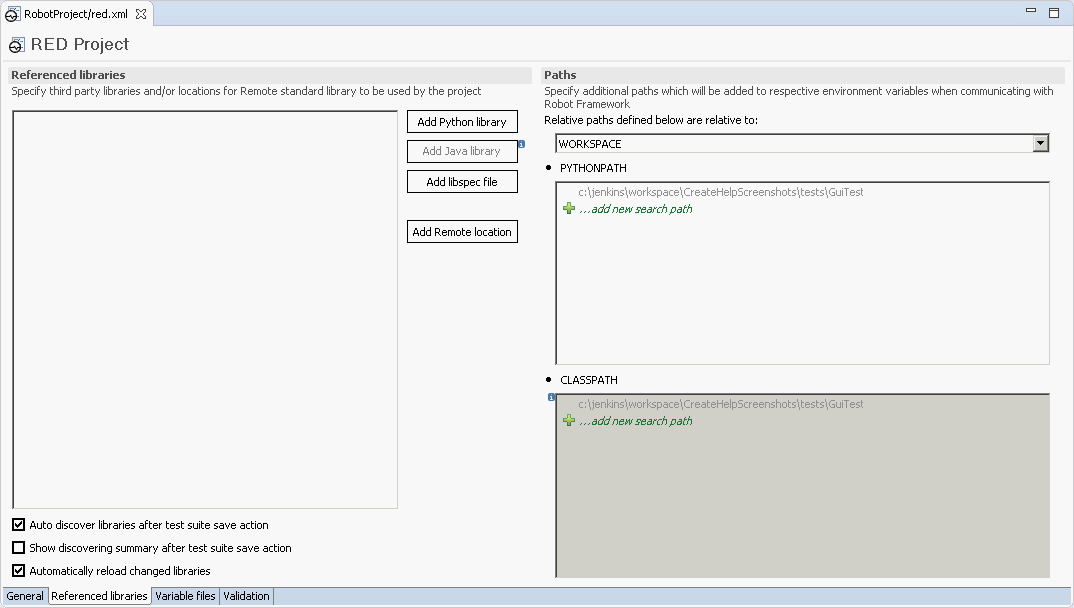
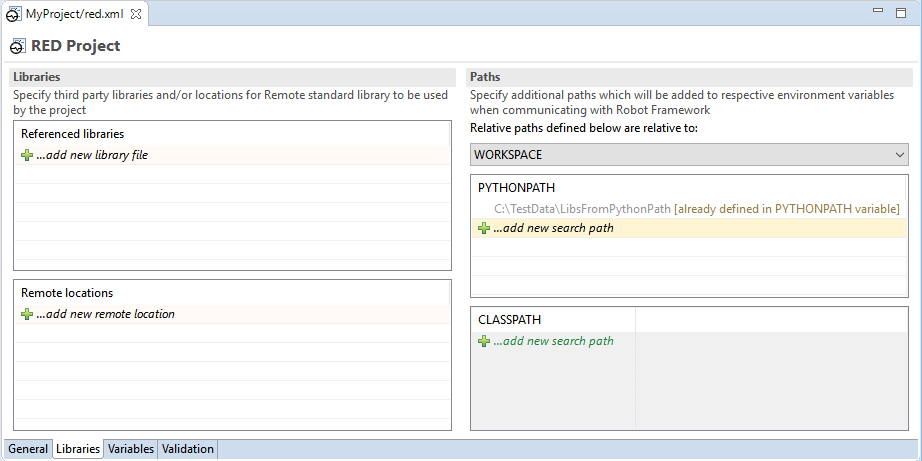
RED-1230 red.xml related help topics updated

Changed region(s): [[0.0, 0.0, 1.0, 1.0]]

diff --git a/src/Eclipse-IDE/org.robotframework.ide.eclipse.main.plugin.doc.user/help/user_guide/working_with_RED/libs.html b/src/Eclipse-IDE/org.robotframework.ide.eclipse.main.plugin.doc.user/help/user_guide/working_with_RED/libs.html
@@ -5,18 +5,15 @@
 <body>
 <h2>Recognizing external libraries in RED</h2>
 
-<h3>External libraries installed by pip or included in testcase by file path</h3>
+<p>In order to provide validation and keyword assistance of external libraries (any library not bundled with RobotFramework, but installed by pip or included in testcase by file path), external library <b>needs</b> to be included in <b> red.xml </b> file in the Referenced libraries part.</p>
 
-In order to provide validation and keyword assistance of external libraries (any library not bundled with RobotFramework), external library <b>needs</b> to be included in <b> red.xml </b> file in the Referenced libraries part. </br>
-<br>
-There are few ways to include library into red.xml
+<p>There are few ways to include library into red.xml.</p>
+
 <h3>Library autodiscovery</h3>
-Main mechanism to include libraries' keywords in RED is done by autodiscovery mechanism. Mechanism works on two levels - during test edition and executed in Project Explorer on group of files and folders. </br>
+<p>Main mechanism to include libraries' keywords in RED is done by autodiscovery mechanism. Mechanism works on two levels - during test edition and executed in Project Explorer on group of files and folders.<br>
 Every time when user edits test suite which has error markers on library declaration, autodiscovery is executed together with save action.<br>
-When there is a need to run autodiscovery on list of files, folders or whole project, this can be achieved by using right click menu in Project Explorer from Robot Framework option.  
-<br><br><img src="images/autodiscovery_menu.png"> <br><br>
-
-<p>Autodiscovery mechanism is configured per project. Its preferences are stored in red.xml file under Referenced Libraries tab.</p>
+When there is a need to run autodiscovery on list of files, folders or whole project, this can be achieved by using right click menu in Project Explorer from Robot Framework option.</p>  
+<img src="images/autodiscovery_menu.png"> <br><br>
 
 <dl class="note">
    <dt>Note</dt>
@@ -24,9 +21,6 @@ When there is a need to run autodiscovery on list of files, folders or whole pro
    </dd>
 </dl>
 
-<h3>Add library from Project Explorer</h3>
-External libraries as python files can be directly included to red.xml file by right clicking on file and using option:<br>
-<b><code>Robot Framework -&gt; Add Library to red.xml.</code></b>
 <h3>Quick Fix - shortcut CTRL+1</h3>
 Lets focus on following example:
 <br><br><img src="images/unknown_libs.png"> <br><br>
@@ -36,38 +30,49 @@ Both libraries are not recognized by RED as libraries names are underlined and e
 Note the light bulb in error marker - it indicates that there is Quick Fix action available.  
 <br>Click on the library name in test editor, open right click menu and choose Quick Fix or use CTRL+1.
 <br><br><img src="images/autodiscovery_quick_fix.png"> <br><br>
-Double click on Discover option, RED will search either PythonPath or library file path, if successful library will be added to Referenced libraries in red.xml 
-<br><br><img src="images/reference_libs.png"> <br><br>
-<br>
-All changes are stored in red.xml, if you need to modify them, open red.xml using Eclipse Default Editor.
+After selecting Discover option, RED will search either PythonPath or library file path, if successful library will be added to Referenced libraries in red.xml 
+<br><br><img src="images/reference_libs.png"><br>
+
+<h3>Add library from Project Explorer</h3>
+External Python libraries can be directly included to red.xml file by right clicking on file and using option:<br>
+<b><code>Robot Framework -&gt; Add Library to red.xml.</code></b>
+
+<h3>Add library from red.xml editor</h3>
+External can be also added directly from red.xml editor:<br><br>
+<img src="images/library_add.gif"> <br><br>
 
 <h3>Using libdoc file when external library is not present locally</h3>
 
 In some scenarios, testware edit happens on different host than test runtime thus it is undesirable/unnecessary to install/import all libraries as on remote host. RobotFramework provides possibility to generate an xml file with list of keywords, this also provides agile test development where libraries are developed in parallel to test cases.<br>
-Libdoc file can be included instead of link to external library by using red.xml editor.<br><br>
-For more information about LibDoc please refer to <a target="_blank" class="external"  href="http://robot-framework.readthedocs.io/en/latest/_modules/robot/libdoc.html?highlight=libdoc">http://robot-framework.readthedocs.io/en/latest/_modules/robot/libdoc.html?highlight=libdoc</a> <br>
-<h3>Errors while importing Referenced Libraries </h3>
-During library import, RED is generating LibDoc from given python file using local python interpreter. 
-Under the hood RED is executing following command to RobotFramework to get list of Keywords from give library:<br>
-<i>python -m robot.libdoc &ltPATH_TO_LIBNAME&gt &ltOPTIONS&gt</i><br>
-Whenever RED encounters problem, it will be shown as popup window from Python execution:
-<br><br><img src="images/libdoc_error.png"> <br><br>
+Libdoc xml file can be included instead of external library file by using red.xml editor.<br><br>
+For more information about LibDoc please refer to <a target="_blank" class="external" href="http://robot-framework.readthedocs.io/en/latest/_modules/robot/libdoc.html?highlight=libdoc">http://robot-framework.readthedocs.io/en/latest/_modules/robot/libdoc.html?highlight=libdoc</a> <br>
+
+<h3>Library autodiscovering and libdoc generation preferences</h3>
+<p>Autodiscovering and libdoc generation preferences can be configured at <code><a class="command" href="javascript:executeCommand('org.eclipse.ui.window.preferences(preferencePageId=org.robotframework.ide.eclipse.main.plugin.preferences.libraries)')">
+Window -&gt; Preferences -&gt; Robot Framework -&gt; Libraries</a></code></p>
+
+<img src="images/libraries_preferences.png"> <br><br>
+
+<dl class="note">
+   <dt>Note</dt>
+   <dd>In some cases problems occur during libdoc generation via session server. It leads to a situation when the server hangs due to <a target="_blank" class="external" href="https://wiki.python.org/moin/GlobalInterpreterLock">Global Interpreter Lock</a> between the server code and the library code.<br> 
+To avoid this problem since version 0.8.11 libdocs are generated in a separate by default. Note that this solution may affect the time of libdoc generation, i.e. slowing down the libraries import, especially with jython interpreter.
+If you are not using problematic libraries you can disable the preference to make libdoc generation faster.
+   </dd>
+</dl>
+
+<h3>Reloading libraries after change</h3>
+
+Whenever external library is changed (for instance new keyword is added), libdoc needs to be regenerated to provide changes on content assist and validation in RED.<br>
+Since version 0.6.3, RED can automatically detect library change and regenerate libdoc (it can be switch off/on in <a class="command" href="javascript:executeCommand('org.eclipse.ui.window.preferences(preferencePageId=org.robotframework.ide.eclipse.main.plugin.preferences.libraries)')">preferences</a>).<br>
+This can be also done manually by right clicking on library in Project Explorer and selecting <i>Reload action</i>
+
+<p>Manual library reloading can be also useful for finding libdoc generation errors.<br>
+Whenever RED encounters libdoc generation problem, it will be shown as popup window from Python execution:</p>
+<img src="images/libdoc_error.png"> <br><br>
 This indicates that some of the dependencies are missing on your local machine which may affect testcase execution.    
 To verify you can try to execute libdoc in console:<br>
 <i>python -m robot.libdoc &ltPATH_TO_LIBNAME&gt list </i>
 
-<h3>Preference for generating libdoc</h3>
-In some cases there are the problems occurring during the libdoc generation via session server. It leads to a situation when a server hang due to <a target="_blank" class="external"  href="https://wiki.python.org/moin/GlobalInterpreterLock">Global Interpreter Lock</a> between the server code and the library code. 
-To avoid this problem the preference located in <code><a class="command" href="javascript:executeCommand('org.eclipse.ui.window.preferences(preferencePageId=org.robotframework.ide.eclipse.main.plugin.preferences.libraries)')">
-Window -&gt; Preferences -&gt; Robot Framework -&gt; Libraries</a></code> is enabled by default.
-<br><br><img src="images/libdoc_generation_preference.png"> <br><br>
-This preference controls if the libdoc is generated in a separate process or not. Note that this solution may affect the time of libdoc generation, i.e. slowing down the libraries import, especially with jython interpreter.
-If you are not using problematic libraries you can disable the preference to make libdoc generation faster.
-
-<h3>Reloading libraries after change</h3>
-
-Whenever external library is changed (for instance new keyword is added), libdoc needs to be regenerated to provide changes on content assist and validation in RED.</br>
-Since version 0.6.3, RED can automatically detect library change and regenerate libdoc (it can be switch off/on in red.xml).<br>
-This can be also done manually by right clicking on library in Project Explorer and selecting <i>Reload action</i>
 </body>
 </html>

diff --git a/src/Eclipse-IDE/org.robotframework.ide.eclipse.main.plugin.doc.user/help/user_guide/working_with_RED/red_xml.html b/src/Eclipse-IDE/org.robotframework.ide.eclipse.main.plugin.doc.user/help/user_guide/working_with_RED/red_xml.html
@@ -15,27 +15,31 @@
 <p>In any case, red.xml shall be visible in Project Explorer in root folder.</p>
 <h2>Red.xml parts</h2>
 <p>Red.xml can be viewed using default editor by double click on file. It will load red.xml with graphical representation of file content. Alternatively, as this is xml file, it can be viewed and edited by any text editor.</p>
-<p>Red.xml is divided in 4 groups,with respectful tabs at the bottom of the window: General, Referenced Libraries, Variable files, Validation.</p>
+<p>Red.xml is divided in 4 groups,with respectful tabs at the bottom of the window: General, Libraries, Variables, Validation.</p>
 
 <h3>General tab</h3>
-<p>This place holds settings which controls overall behavior of RED Robot Editor.</p>
+<p>This section allows to set python interpreter regardless of interpreter setting in <a href='../launching/launch_prefs.html'>Preferences</a>.</p>
 <img src="images/red_xml_general_tab.png"> <br><br> 
-<p><b>Robot Framework</b> - this section allows to set python interpreter regardless of interpreter setting in <a href='../launching/launch_prefs.html'>Preferences</a>.</p>
-<p><b>Variables mappings</b> - values can be assigned to variables, this is used to resolved parameterized paths. </p>
-<p>More details can be found under topic <a href='variable_mapping.html'>Variable mapping</a> </p>
-<h3>Referenced Libraries tab</h3>
-<img src="images/red_xml_libraries_tab.png"> <br><br> 
-<p>This section holds anything related to libraries and RED mechanisms for dealing with libraries.</p>
-<p><b>Referenced libraries</b> - holds a list of discovered or manually added libraries in current Project. At the bottom of pane, library auto discovery and reloading settings can be changed. More details can be found under topic <a href="libs.html">Recognizing external libraries in RED<a></p>
+
+<h3>Libraries tab</h3>
+<p>This section holds everything related to Robot external libraries.</p>
+<p><b>Libraries</b> - holds a list of discovered or manually added libraries. It is divided to <b>Referenced libraries</b> and <b>Remote locations</b>.</p>
+<p>More info under topic <a href="libs.html">Recognizing external libraries in RED<a></p>
 <p><b>Paths</b> - holds settings for user defined Python/ClassPath which are used for Libraries discovery and testcase execution, additionally relative paths relativity can be changed from Workspace to Project.</p>
 <p>More info under topic <a href="custom_paths_relatve.html">Custom python/class paths and path relativeness</a> </p>
-<h3>Variable files tab</h3>
-<img src="images/red_xml_variables_tab.png"> <br><br> 
-<p><b>Variable files</b> - this tab specify variable files which should be visible on global scope (Project wise). Those global variable files are used during testcase edit and running testcases by using Robot command line parameter <i>-V</i>.</p>
+<img src="images/red_xml_libraries_tab.png"> <br><br> 
+
+<h3>Variables tab</h3>
+<p>This section holds everything related to Robot variables.</p>
+<p><b>Variable mappings</b> - values can be assigned to variables, this is used to resolved parameterized paths. </p>
+<p>More info under topic <a href='variable_mapping.html'>Variable mapping - dealing with parameterized paths to libraries and resources</a> </p>
+<p><b>Variable files</b> - this tab specify variable files which should be visible on global scope. Those global variable files are used during testcase edit and validation.</p>
 <p>More info under topic <a href="variable_files.html">Variable Files - using files with variable accessible anywhere inside Project</a>.</p>
+<img src="images/red_xml_variables_tab.png"> <br><br> 
+
 <h3>Validation tab</h3>
-<img src="images/red_xml_validation_tab.png"> <br><br> 
-<p><b>Excluded project parts</b> - this section allows user to limit validation to selected folder or exclude selected folder from validation.Files can be excluded by fixed size. To exclude folder in Project, right click on folder and choose <i>Exclude</i> from menu. </p>
+<p>This section allows user to limit validation to selected folder or exclude selected folder from validation. To exclude folder in Project, right click on folder and choose <i>Exclude</i> from menu. Files can be also excluded by fixed size [KB]. </p>
 <p>More info under topic <a href='../validation/scope.html'>Limiting validation scope</a>.</p>
+<img src="images/red_xml_validation_tab.png"> <br><br> 
 </body>
 </html>

diff --git a/src/Eclipse-IDE/org.robotframework.ide.eclipse.main.plugin.doc.user/help/user_guide/working_with_RED/remote_library.html b/src/Eclipse-IDE/org.robotframework.ide.eclipse.main.plugin.doc.user/help/user_guide/working_with_RED/remote_library.html
@@ -7,21 +7,20 @@
 <h2>Working with Remote Library</h2>
 <h3>Introduction</h3>
 
-<p>Following <a href="https://github.com/robotframework/RemoteInterface">RobotFramework RemoteInterface</a></p>
+<p>Following <a target="_blank" class="external" href="https://github.com/robotframework/RemoteInterface">RobotFramework RemoteInterface</a></p>
 <p>The remote library interface allows Robot Framework test libraries to be run as external processes. An important use case for this support is running test libraries on different machines than where Robot Framework itself is executed.Another big use case is implementing test libraries using other languages that Robot Framework supports natively. In practice test libraries can be implemented using any language that supports the XML-RPC protocol that the remote interface uses for communication. </p>
 <p>The remote interface consists of the Remote library, remote servers and actual test libraries running behind these servers. </p>
 <p>The Remote library is one of Robot Framework's standard libraries and thus automatically installed with the framework. It does not have any keywords of its own, but instead works as a proxy between Robot Framework and remote servers.<br>
 
 Remote servers expose the keywords provided by the actual test libraries to the Remote library. The Remote library and remote servers communicate using a simple remote protocol on top of an XML-RPC channel.</p>
 <h3>Using Remote libraries in RED</h3>
-<h4>Settings in Referenced Libraries in red.xml</h4>
-<p>In order to use Keywords from Remote Library together with validation and code assistance, information about Remote Library address needs to be included in red.xml under Referenced Libraries tab.</p>
+<p>In order to use Keywords from Remote Library together with validation and code assistance, information about Remote Library address needs to be included in <b><code>red.xml -&gt; Libraries -&gt; Libraries</code></b> part.</p>
 <br><br><img src="images/remote_library_settings.png"> <br><br>
 <p>Note that IP, Port and name library served by remote library server may differ. Please follow usage details of your Remote Library.</p>
 <h4>Settings in TestSuite</h4>
 <p>As with standard libraries, Remote library needs to be imported in <i>Settings</i> part.</p>
 <p>Standard syntax is as follows: <i>Library Remote http://${ADDRESS}:${PORT}</i></p>
 <br><br><img src="images/remote_library_testcase.png"> <br><br>
-<p>For more examples please check RobotFramewoke RemoteInterface webpage <a href="https://github.com/robotframework/RemoteInterface#available-remote-servers">https://github.com/robotframework/RemoteInterface#available-remote-servers</a></p>
+<p>For more examples please check RobotFramewoke RemoteInterface webpage <a target="_blank" class="external" href="https://github.com/robotframework/RemoteInterface#available-remote-servers">https://github.com/robotframework/RemoteInterface#available-remote-servers</a></p>
 </body>
 </html>

diff --git a/src/Eclipse-IDE/org.robotframework.ide.eclipse.main.plugin.doc.user/help/user_guide/working_with_RED/custom_paths_relatve.html b/src/Eclipse-IDE/org.robotframework.ide.eclipse.main.plugin.doc.user/help/user_guide/working_with_RED/custom_paths_relatve.html
@@ -4,7 +4,7 @@
 </head>
 <body>
 <h2>Custom python/class paths and path relativeness</h2>
-Settings available in <b><code>red.xml -&gt; Referenced Libraries</code></b>
+Settings available in <b><code>red.xml -&gt; Libraries</code></b>
 <h3>Custom python/class paths</h3>
 Certain RED usage scenarios such as library development, requires custom path for python/jython interpreter to fulfill dependencies. <br>
 Either this can be done on OS level by updating environment variables or can be included in red.xml.<br>
@@ -12,7 +12,7 @@ Path entries can be absolute or relative, they will be taken into use anytime wh
  <br><br><img src="images/custom_path.png"> <br><br>
 <h3>Path relativeness</h3>
 By default, relative paths are resolved around Project scope although in some scenarios like storing Robot testsuites in one project and libraries in other, there is a need to change relativeness regards to Workspace.<br>
-This can be changed in <b><code>red.xml -&gt; Referenced Libraries -&gt; Paths</code></b> part.
+This can be changed in <b><code>red.xml -&gt; Libraries -&gt; Paths</code></b> part.
 <br><b>Note that relativeness setting is used together with class/python path and libraries only.</b>
 
 </body>

diff --git a/src/Eclipse-IDE/org.robotframework.ide.eclipse.main.plugin.doc.user/help/user_guide/launching/exec_control.html b/src/Eclipse-IDE/org.robotframework.ide.eclipse.main.plugin.doc.user/help/user_guide/launching/exec_control.html
@@ -51,7 +51,7 @@
 	</p>
 	<ul>
 	   <li><b>terminate gracefully</b> - under Windows it simulates pressing <code>Ctrl+C</code> and under Unix-like 
-	   systems it sends <code>INT</code> signal to the process. As described in <a class="external" href="http://robotframework.org/robotframework/latest/RobotFrameworkUserGuide.html#stopping-test-execution-gracefully">
+	   systems it sends <code>INT</code> signal to the process. As described in <a target="_blank" class="external" href="http://robotframework.org/robotframework/latest/RobotFrameworkUserGuide.html#stopping-test-execution-gracefully">
 	   User Guide</a> this allows Robot to stop tests execution execute all the teardowns and generate 
 	   output files.
 	   </li>

diff --git a/src/Eclipse-IDE/org.robotframework.ide.eclipse.main.plugin.doc.user/help/user_guide/working_with_RED/variable_files.html b/src/Eclipse-IDE/org.robotframework.ide.eclipse.main.plugin.doc.user/help/user_guide/working_with_RED/variable_files.html
@@ -26,7 +26,7 @@ Variables from such file will be visible as Global variables for all Robot files
 </dl>
 
 Below is a sample body of such Python variable file (examples can be also found in RobotFramework official manual and Python examples). 
-<br><br><img src="images/var-files-red-xml.gif"> <br><br>
+<br><br><img src="images/var_files_red_xml.gif"> <br><br>
 <br>
 <code><br>
 #!python <br>
